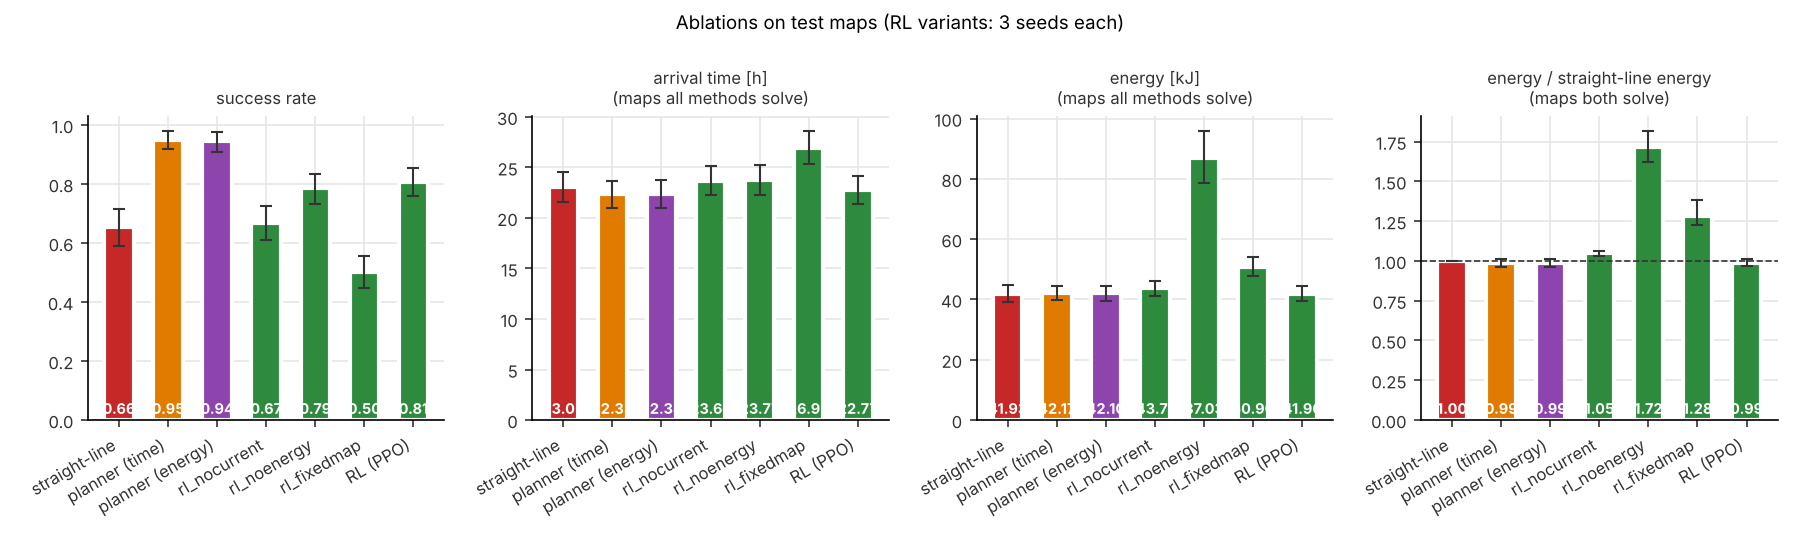
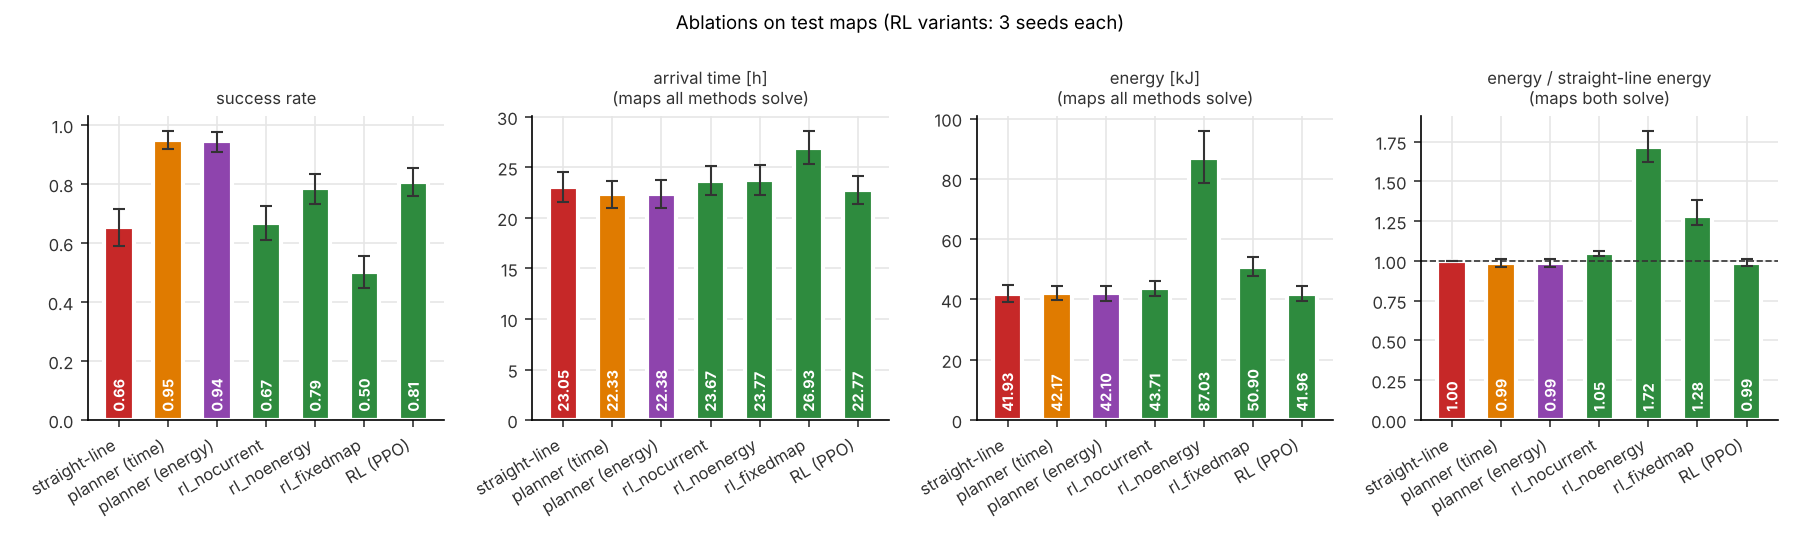
Stage 6: figures and animations regenerated by run_all.py from raw results; LEARN stage 6
Claude-Session: https://claude.ai/code/session_015EryzdU7LVJWDcyDDAh2YL

diff --git a/src/glider_rl/plots.py b/src/glider_rl/plots.py
@@ -49,13 +49,18 @@ def training_curves(groups: dict[str, Sequence[Path]], out: Path, bin_steps: int
             d["bin"] = (d.timesteps // bin_steps + 1) * bin_steps
             per_seed.append(d.groupby("bin")[["success", "ret"]].mean())
         for ax, col in zip(axes, ("success", "ret")):
+            if col == "ret" and label != next(iter(groups)):
+                continue   # returns of different reward variants are not comparable: first group only
             m = pd.concat([p[col] for p in per_seed], axis=1)
             x = m.index.values / 1e6
             mean, std = m.mean(axis=1).values, m.std(axis=1).fillna(0).values
             ax.plot(x, mean, color=color, lw=2, label=f"{label} (n={len(runs)})")
-            ax.fill_between(x, mean - std, mean + std, color=color, alpha=0.18, lw=0)
+            lo, hi = mean - std, mean + std
+            if col == "success":
+                lo, hi = np.clip(lo, 0, 1), np.clip(hi, 0, 1)
+            ax.fill_between(x, lo, hi, color=color, alpha=0.18, lw=0)
     axes[0].set_ylabel("training success rate", color=INK)
-    axes[1].set_ylabel("training episode return", color=INK)
+    axes[1].set_ylabel(f"training episode return ({next(iter(groups))})", color=INK)
     for ax in axes:
         ax.set_xlabel("environment steps [millions]", color=INK)
         _style(ax)
@@ -81,8 +86,8 @@ def results_bars(summary: pd.DataFrame, condition: str, out: Path, title: str) -
         ax.bar(x, mean, width=0.6, color=colors, edgecolor="white", linewidth=2)
         ax.errorbar(x, mean, yerr=err, fmt="none", ecolor=INK, elinewidth=1, capsize=3)
         for xi, v in zip(x, mean):
-            ax.annotate(f"{v:.2f}", (xi, 0), xytext=(0, 3), textcoords="offset points",
-                        ha="center", fontsize=7, color="white", fontweight="bold")
+            ax.annotate(f"{v:.2f}", (xi, 0), xytext=(0, 4), textcoords="offset points", rotation=90,
+                        ha="center", va="bottom", fontsize=7, color="white", fontweight="bold")
         ax.set_xticks(x, [LABELS.get(m, m) for m in s.method], rotation=30, ha="right", fontsize=7)
         ax.set_title(label, fontsize=8, color=INK)
         _style(ax)

diff --git a/run_all.py b/run_all.py
@@ -118,7 +118,7 @@ def figures(s: pd.DataFrame, cfg: dict) -> None:
     FIG.mkdir(parents=True, exist_ok=True)
     runs = RES / "runs"
     groups = {"main (w_t=w_e=1)": sorted(runs.glob("main_s*"))}
-    for a in ("nocurrent", "noenergy", "fixedmap"):
+    for a in ("nocurrent", "noenergy"):   # fixed-map runs train on one map: not comparable, omitted
         groups[f"ablation: {a}"] = sorted(runs.glob(f"abl_{a}_s*"))
     groups = {k: [p for p in v if (p / "episodes.csv").exists()] for k, v in groups.items()}
     groups = {k: v for k, v in groups.items() if v}

diff --git a/docs/STATUS.md b/docs/STATUS.md
@@ -25,3 +25,4 @@ Updated: 2026-11-18 04:40 IST
 - 2026-11-18 05:00 IST (23:30 UTC) Track A stage 3: GliderEnv passes gymnasium check_env; 7 env tests (reward bookkeeping, shaping telescopes, circling gives negative return, seeded noise). Quick 300k PPO check: world-frame observation reached ~5% training success, so the observation was changed to a goal-aligned frame (ASSUMPTIONS.md) -> 77% success on validation maps (straight 65%, planner 96%). Scaled: 5 seeds x 2M steps (8 envs, CPU, ~19 min/run with 5 in parallel). Training success (stochastic policy) rises from ~74% in the first 250k steps to 80-83% at 2M for all 5 seeds; it is still below the planner. Logs: results/runs/main_s*/episodes.csv, progress.csv. Note: a git autostash replaced the open log files mid-run; episodes.csv/progress.csv were recovered in full from /proc, but the TensorBoard event files of main_s* are incomplete.
 - 2026-11-18 05:20 IST (23:50 UTC) Track A stage 4: protocol fixed in docs/EVAL_PROTOCOL.md before test evaluation (one amendment: random policy excluded from the strict map pairing, noted there). TEST maps (200; RL = 5 seeds, deterministic, final models): success straight 65.5%, planner_time 95.0%, planner_energy 94.5%, random 2.5%, RL 80.4% +/- 2.7% (seed std; map-bootstrap 95% CI 75.5-84.9%). On the 120 maps every method solves: time straight 26.1 h, planner 23.5 h, RL 24.9 +/- 0.3 h; energy 47.7 / 45.7 / 46.5 +/- 1.0 kJ; energy ratio vs straight (maps both solve) RL 0.994 +/- 0.020 (CI 0.975-1.013, i.e. no significant energy saving), planner 0.987. => RL clearly beats the naive straight-line on success and time but is WORSE than the classical planner on success and time and not better on energy. Held-out double gyre: straight 96.0%, planner 99.5/100%, RL 98.8 +/- 0.6%; RL energy ratio 0.952 +/- 0.013 (planner 0.97), RL slower than planner (24.5 vs 23.1 h). results/summary.csv, results/summary_all.csv, results/eval/*.csv, results/figures/results_main.png, training_curves.png.
 - 2026-11-18 06:35 IST (01:06 UTC) Track A stage 5 (test maps, 3 seeds per variant unless noted). 5a Pareto (w_energy/w_time 0, 0.25, 1, 4, 16; 110 maps all solve): RL energy 57.5 +/- 7.9 kJ at ratio 0 vs 45.2-46.3 kJ for all positive ratios, RL time 24.3-24.8 h with no monotone trend (differences within seed std); planner 23.0-23.2 h, 44.4-44.5 kJ at every ratio, i.e. the planner dominates RL on both axes and there is essentially no time/energy trade-off under this energy model. 5b Ablations (vs full RL 80.8% with the same 3 seeds; straight 65.5%): no current observation 66.8% +/- 0.8% (= straight-line level); no energy term 78.5% +/- 0.5% success but energy ratio 1.72 +/- 0.26 (constant turning); trained on one fixed map (train map 0, which is hard: straight fails, planner needs 52 h; 2 of 3 seeds never solved it in training) 50.3% +/- 15.0% on unseen maps (seeds: 49/36/66%). 5c Robustness (5 seeds): observation noise std 0.05/0.1/0.2/0.3 m/s -> success 80.7/81.0/81.0/80.6% (unchanged) but energy ratio 1.15/1.30/1.51/1.64; held-out double gyre in the stage 4 entry. Figures: results/figures/pareto.png, results_ablations.png, robustness_noise.png, results_double_gyre.png. Extra 6M-step runs (pre-registered in EVAL_PROTOCOL.md) are training (started 00:50 UTC).
+- 2026-11-18 06:40 IST (01:10 UTC) Track A stage 6: run_all.py regenerates summaries, 6 PNG figures and 5 GIF+MP4 animations from raw results in ~50 s (no model). 3-way demo results/figures/demo_3way_val10006.gif (0.98 MB) + MP4, RL failure case demo_rl_failure_val10000.gif, held-out gyre demo, training curves with seed bands, bar charts (main, gyre, ablations), Pareto plot, robustness plot. Demo maps picked by a fixed rule on validation maps (scripts/record_demos.py). Colour palette validated for colour-vision deficiency; markers as secondary encoding.

diff --git a/docs/LEARN.md b/docs/LEARN.md
@@ -95,6 +95,20 @@ Worked example: per-map times (h) 20, 22, 30 -> mean 24. One resample might pick
 2. Why can success stay flat while energy rises under observation noise?
 3. Why does the Pareto sweep show almost no trade-off in this model?
 
+## Stage 6: demos and figures
+
+**What was built.** `python run_all.py` rebuilds every table, figure and animation from saved raw data only (episode CSVs, training logs, recorded trajectories), in ~50 s, with no trained model. Demo maps were chosen by a rule written in `scripts/record_demos.py` *before* looking at them (first validation map where straight-line fails and planner and RL succeed; first validation map where RL fails), so the demo is illustrative, not cherry-picked.
+
+**Key idea: separate "compute" from "present".** Expensive steps (training, evaluation) write raw data once; cheap steps (summaries, plots) read it. Anyone can re-check a number by opening the CSV it came from.
+Worked example: `results/summary.csv` row "rl", column `success_mean` = 0.804 is the mean over 5 seeds of the per-seed success rates in `results/eval/test_main_rl.csv` (0.840, 0.810, 0.775, 0.815, 0.780 -> 0.804).
+
+**Change this and watch.** Delete `results/figures/pareto.png` and run `python run_all.py`: it reappears identical. Then edit `COLORS` in `src/glider_rl/plots.py` and rerun: every figure changes consistently.
+
+**Explain it back.**
+1. Why save trajectories (.npz) instead of re-running the model each time the GIF is drawn?
+2. Why was the demo map chosen on validation maps by a fixed rule?
+3. Why does the GIF use only a few shades for the background?
+
 ---
 ### Answers
 Stage 0: (1) one place to change, experiments are recorded, no hidden constants. (2) results would depend on call order, so the same seed would not give the same map. (3) it is large, machine-specific and rebuilt from requirements.txt.
@@ -108,3 +122,5 @@ Stage 3: (1) it is a difference of a potential (distance), so its sum depends on
 Stage 4: (1) the choice would be fitted to those maps, so the reported number would be optimistic and no longer an unbiased estimate. (2) a method that fails hard maps would otherwise look faster just because it is averaged over easier maps (survivorship bias). (3) seed std = how much the result depends on the random training run; bootstrap CI = how much it depends on the particular sample of test maps.
 
 Stage 5: (1) it shows the RL advantage over straight-line disappears without current information, so the agent is genuinely exploiting the flow rather than just steering better. (2) success only needs the average direction to be right; energy counts every small heading change, and noise makes the policy's commanded heading jitter. (3) energy is mostly hotel load x time, so saving time also saves energy; the only independent part is turning, which any positive energy weight already suppresses.
+
+Stage 6: (1) figures become reproducible without the model files (which are not in git) and without re-simulating. (2) choosing the prettiest test map would mislead viewers about typical behaviour and would touch the test set. (3) GIFs have at most 256 colours per frame; a smooth colour map uses them up and the method colours get quantised (orange turned red in an early version).

diff --git a/docs/HANDOFF.md b/docs/HANDOFF.md
@@ -18,7 +18,7 @@ Last updated: 2026-11-18 06:10 IST (00:40 UTC). Ablation and long-training resul
 python -m venv .venv && . .venv/bin/activate
 pip install -r requirements.txt && pip install -e . --no-deps
 pytest -q
-python run_all.py                    # tables + figures + GIFs from saved results (no model needed, ~2 min)
+python run_all.py                    # tables + figures + GIFs from saved results (no model needed, ~50 s measured)
 python run_all.py --evaluate         # re-run all test evaluations from trained models (needs results/runs/*/model.zip)
 python run_all.py --full             # retrain everything (26 runs x 2M steps; estimated ~2-2.5 h on 4 cores from the measured run times) + evaluate + demos
 python -m glider_rl.experiments --group long --parallel 5   # extra 6M-step runs
